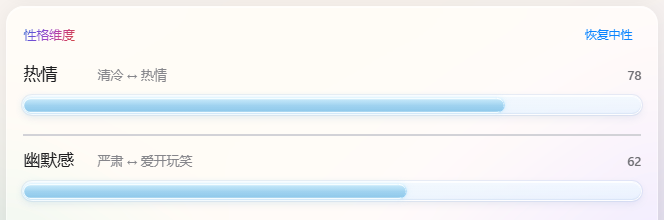
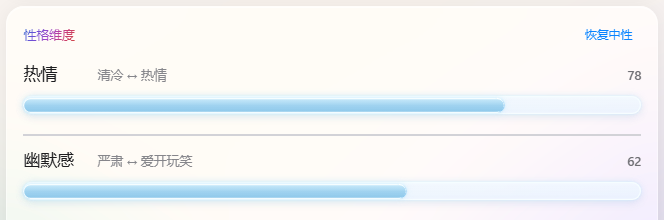
style(proto): 整根进度条的外轮廓换成与圆弧同一道亮线
上一版只把【填充】的轮廓换成了 1.2px 亮线，
轨道（空管部分）还是旧的白色双圈：
  0 0 0 1px rgba(255,255,255,.95)
  0 0 0 2px rgba(148,186,228,.2)
所以整根进度条的外围并没有那圈玻璃边。

现在轨道也换成同一条：
  inset 0 0 0 1.2px rgba(246,253,255,.98)
  0 0 2px rgba(200,236,255,.75)
  0 0 7px rgba(180,225,250,.35)
与填充、与右端圆弧三者同色、同宽、同一支光 ——
整个进度条从空管到填充到收尾，玻璃边是连续的一笔。

（白色双圈本来也违背之前"不要把玻璃边框做成白的"那条反馈。）

实测：rightGap=0，insideTop=1.5，[TANGENT_TO_FILL_END] true
控制台零错误。

diff --git a/prototypes/Costudy-UI-原型.html b/prototypes/Costudy-UI-原型.html
@@ -1983,11 +1983,12 @@ input[type="range"]:active::-webkit-slider-thumb {
     rgba(228, 241, 254, 0.68) 100%
   );
   box-shadow:
-    0 0 0 1px rgba(255, 255, 255, 0.95),
-    0 0 0 2px rgba(148, 186, 228, 0.2),
-    inset 0 1px 0 rgba(255, 255, 255, 0.75),
-    inset 0 -1px 1px rgba(116, 158, 206, 0.16),
-    0 3px 9px rgba(96, 135, 180, 0.16);
+    /* 整根管子的外轮廓：与右端圆弧同一道 1.2px 亮线、同一支光，
+       整个进度条的玻璃边因此是连续的一笔 */
+    inset 0 0 0 1.2px rgba(246, 253, 255, 0.98),
+    0 0 2px rgba(200, 236, 255, 0.75),
+    0 0 7px rgba(180, 225, 250, 0.35),
+    0 3px 9px rgba(96, 135, 180, 0.14);
 }
 
 /* 填充：高度收进玻璃内径（18 - 壁 1.5x2 = 15px），

diff --git a/prototypes/costudy-ui/liquid-glass.css b/prototypes/costudy-ui/liquid-glass.css
@@ -1183,11 +1183,12 @@ input[type="range"]:active::-webkit-slider-thumb {
     rgba(228, 241, 254, 0.68) 100%
   );
   box-shadow:
-    0 0 0 1px rgba(255, 255, 255, 0.95),
-    0 0 0 2px rgba(148, 186, 228, 0.2),
-    inset 0 1px 0 rgba(255, 255, 255, 0.75),
-    inset 0 -1px 1px rgba(116, 158, 206, 0.16),
-    0 3px 9px rgba(96, 135, 180, 0.16);
+    /* 整根管子的外轮廓：与右端圆弧同一道 1.2px 亮线、同一支光，
+       整个进度条的玻璃边因此是连续的一笔 */
+    inset 0 0 0 1.2px rgba(246, 253, 255, 0.98),
+    0 0 2px rgba(200, 236, 255, 0.75),
+    0 0 7px rgba(180, 225, 250, 0.35),
+    0 3px 9px rgba(96, 135, 180, 0.14);
 }
 
 /* 填充：高度收进玻璃内径（18 - 壁 1.5x2 = 15px），
